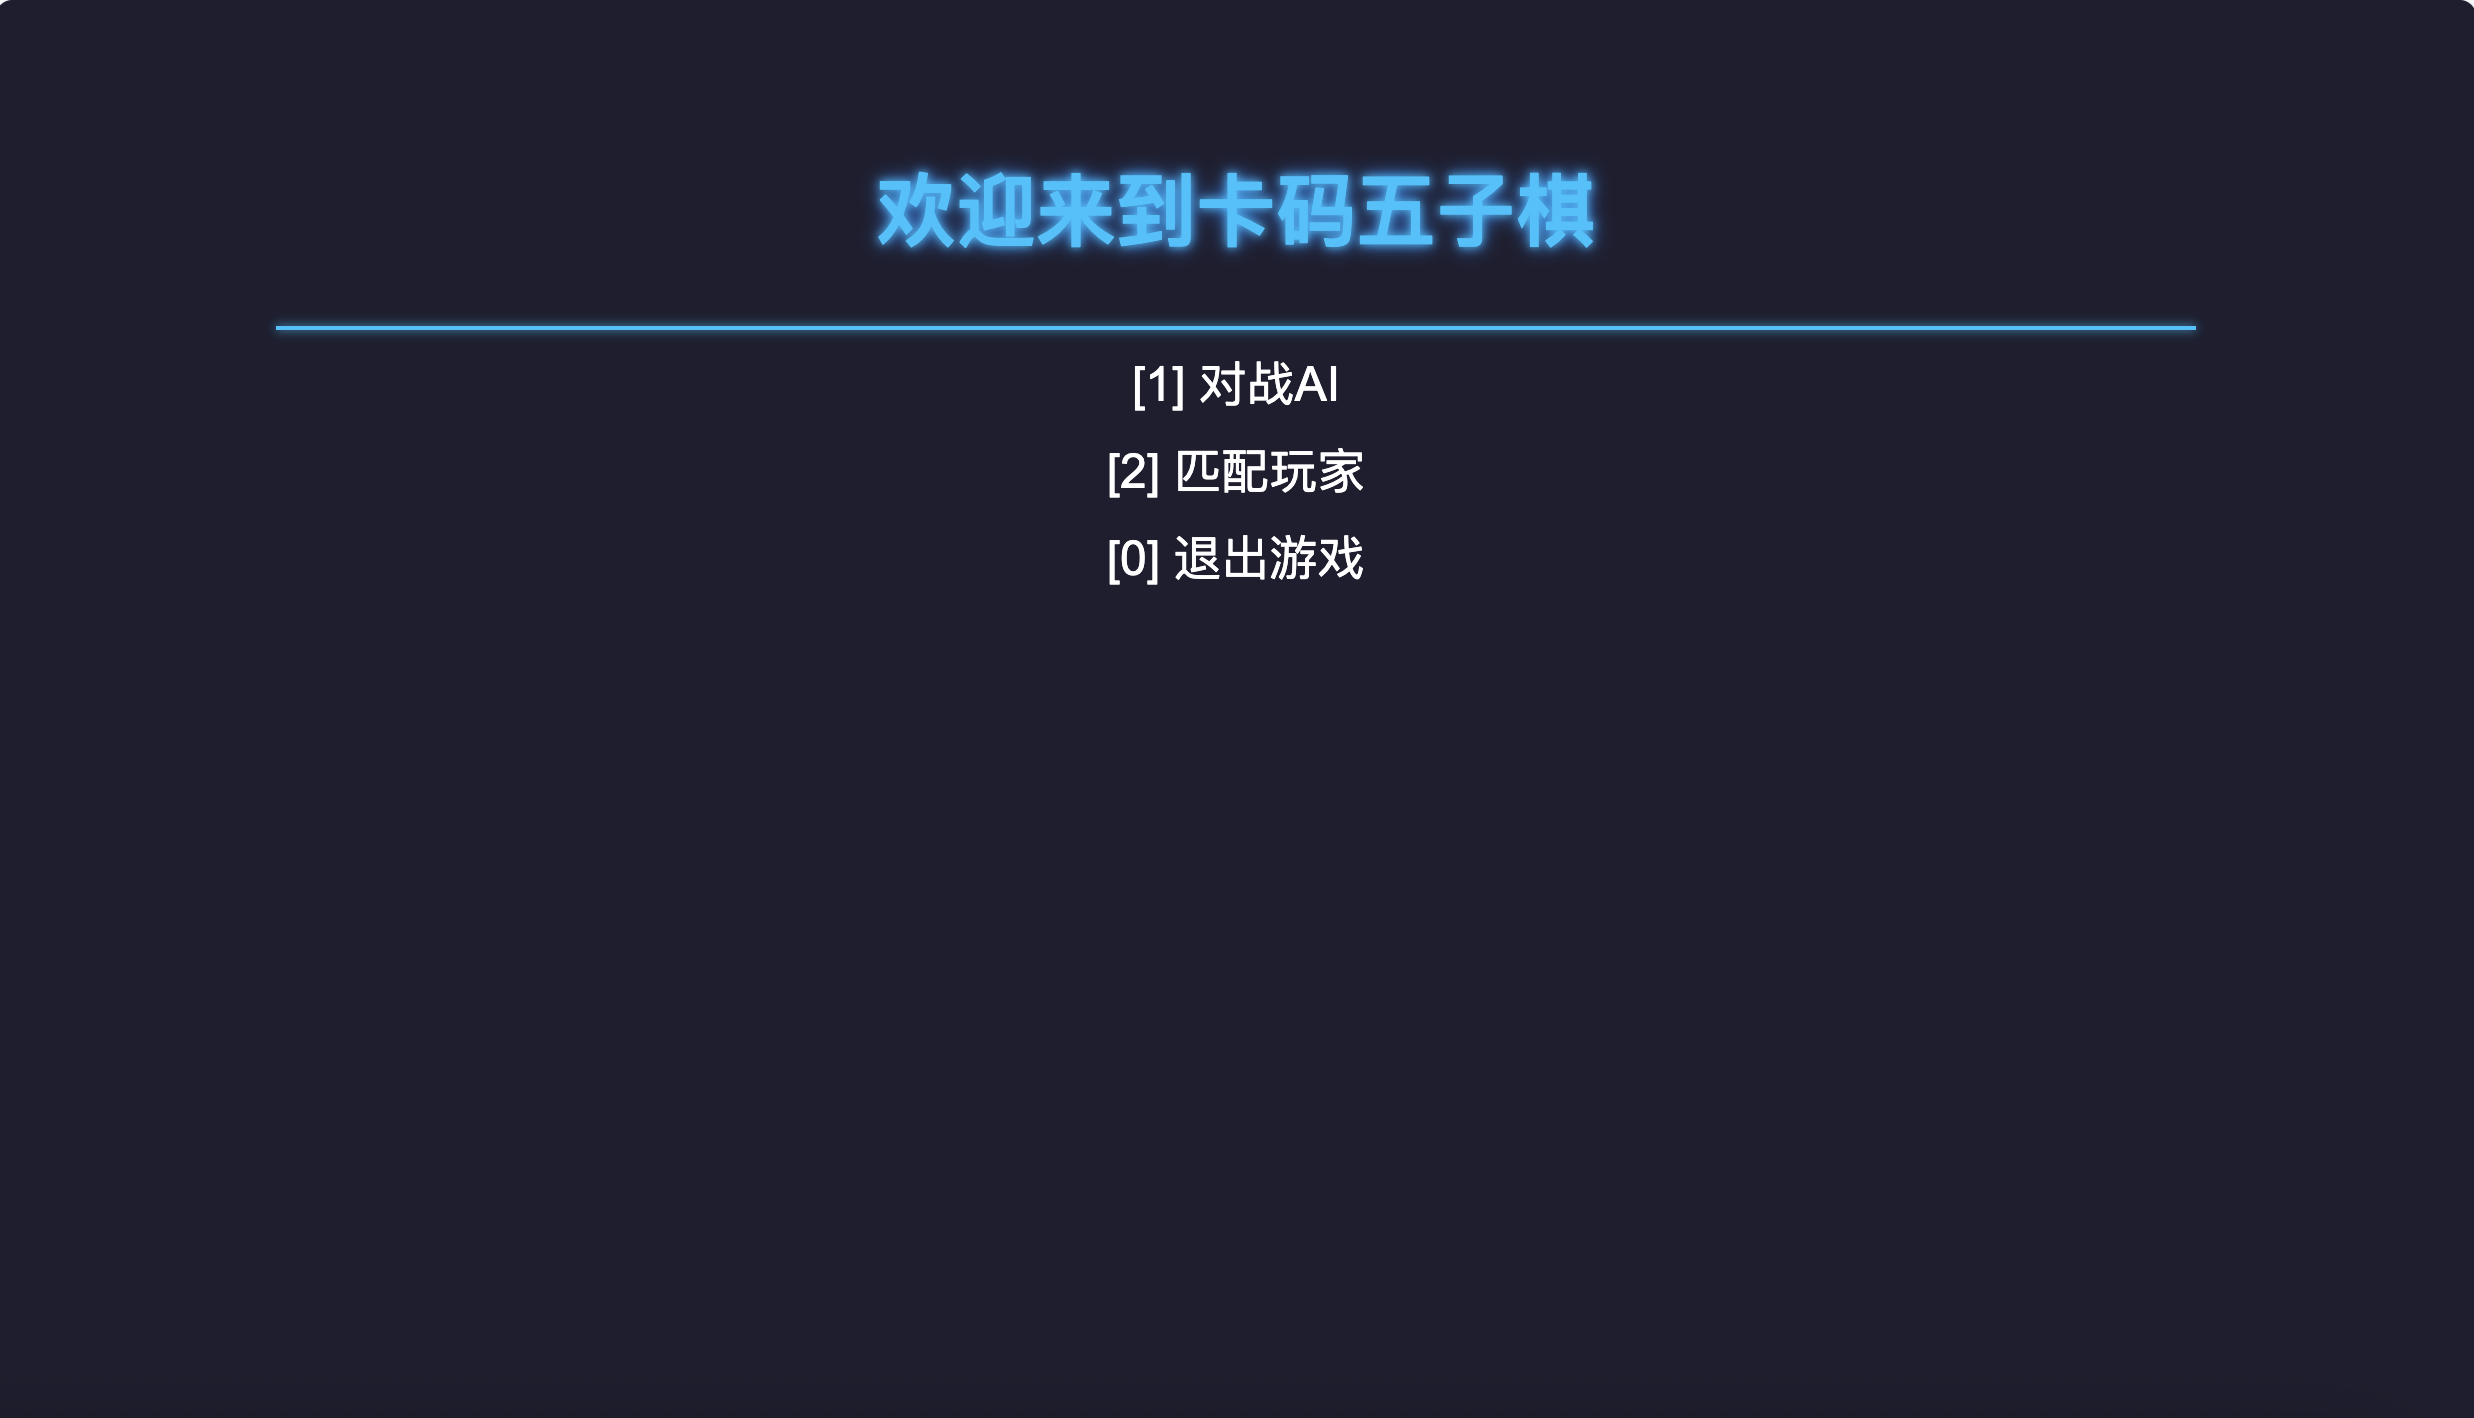
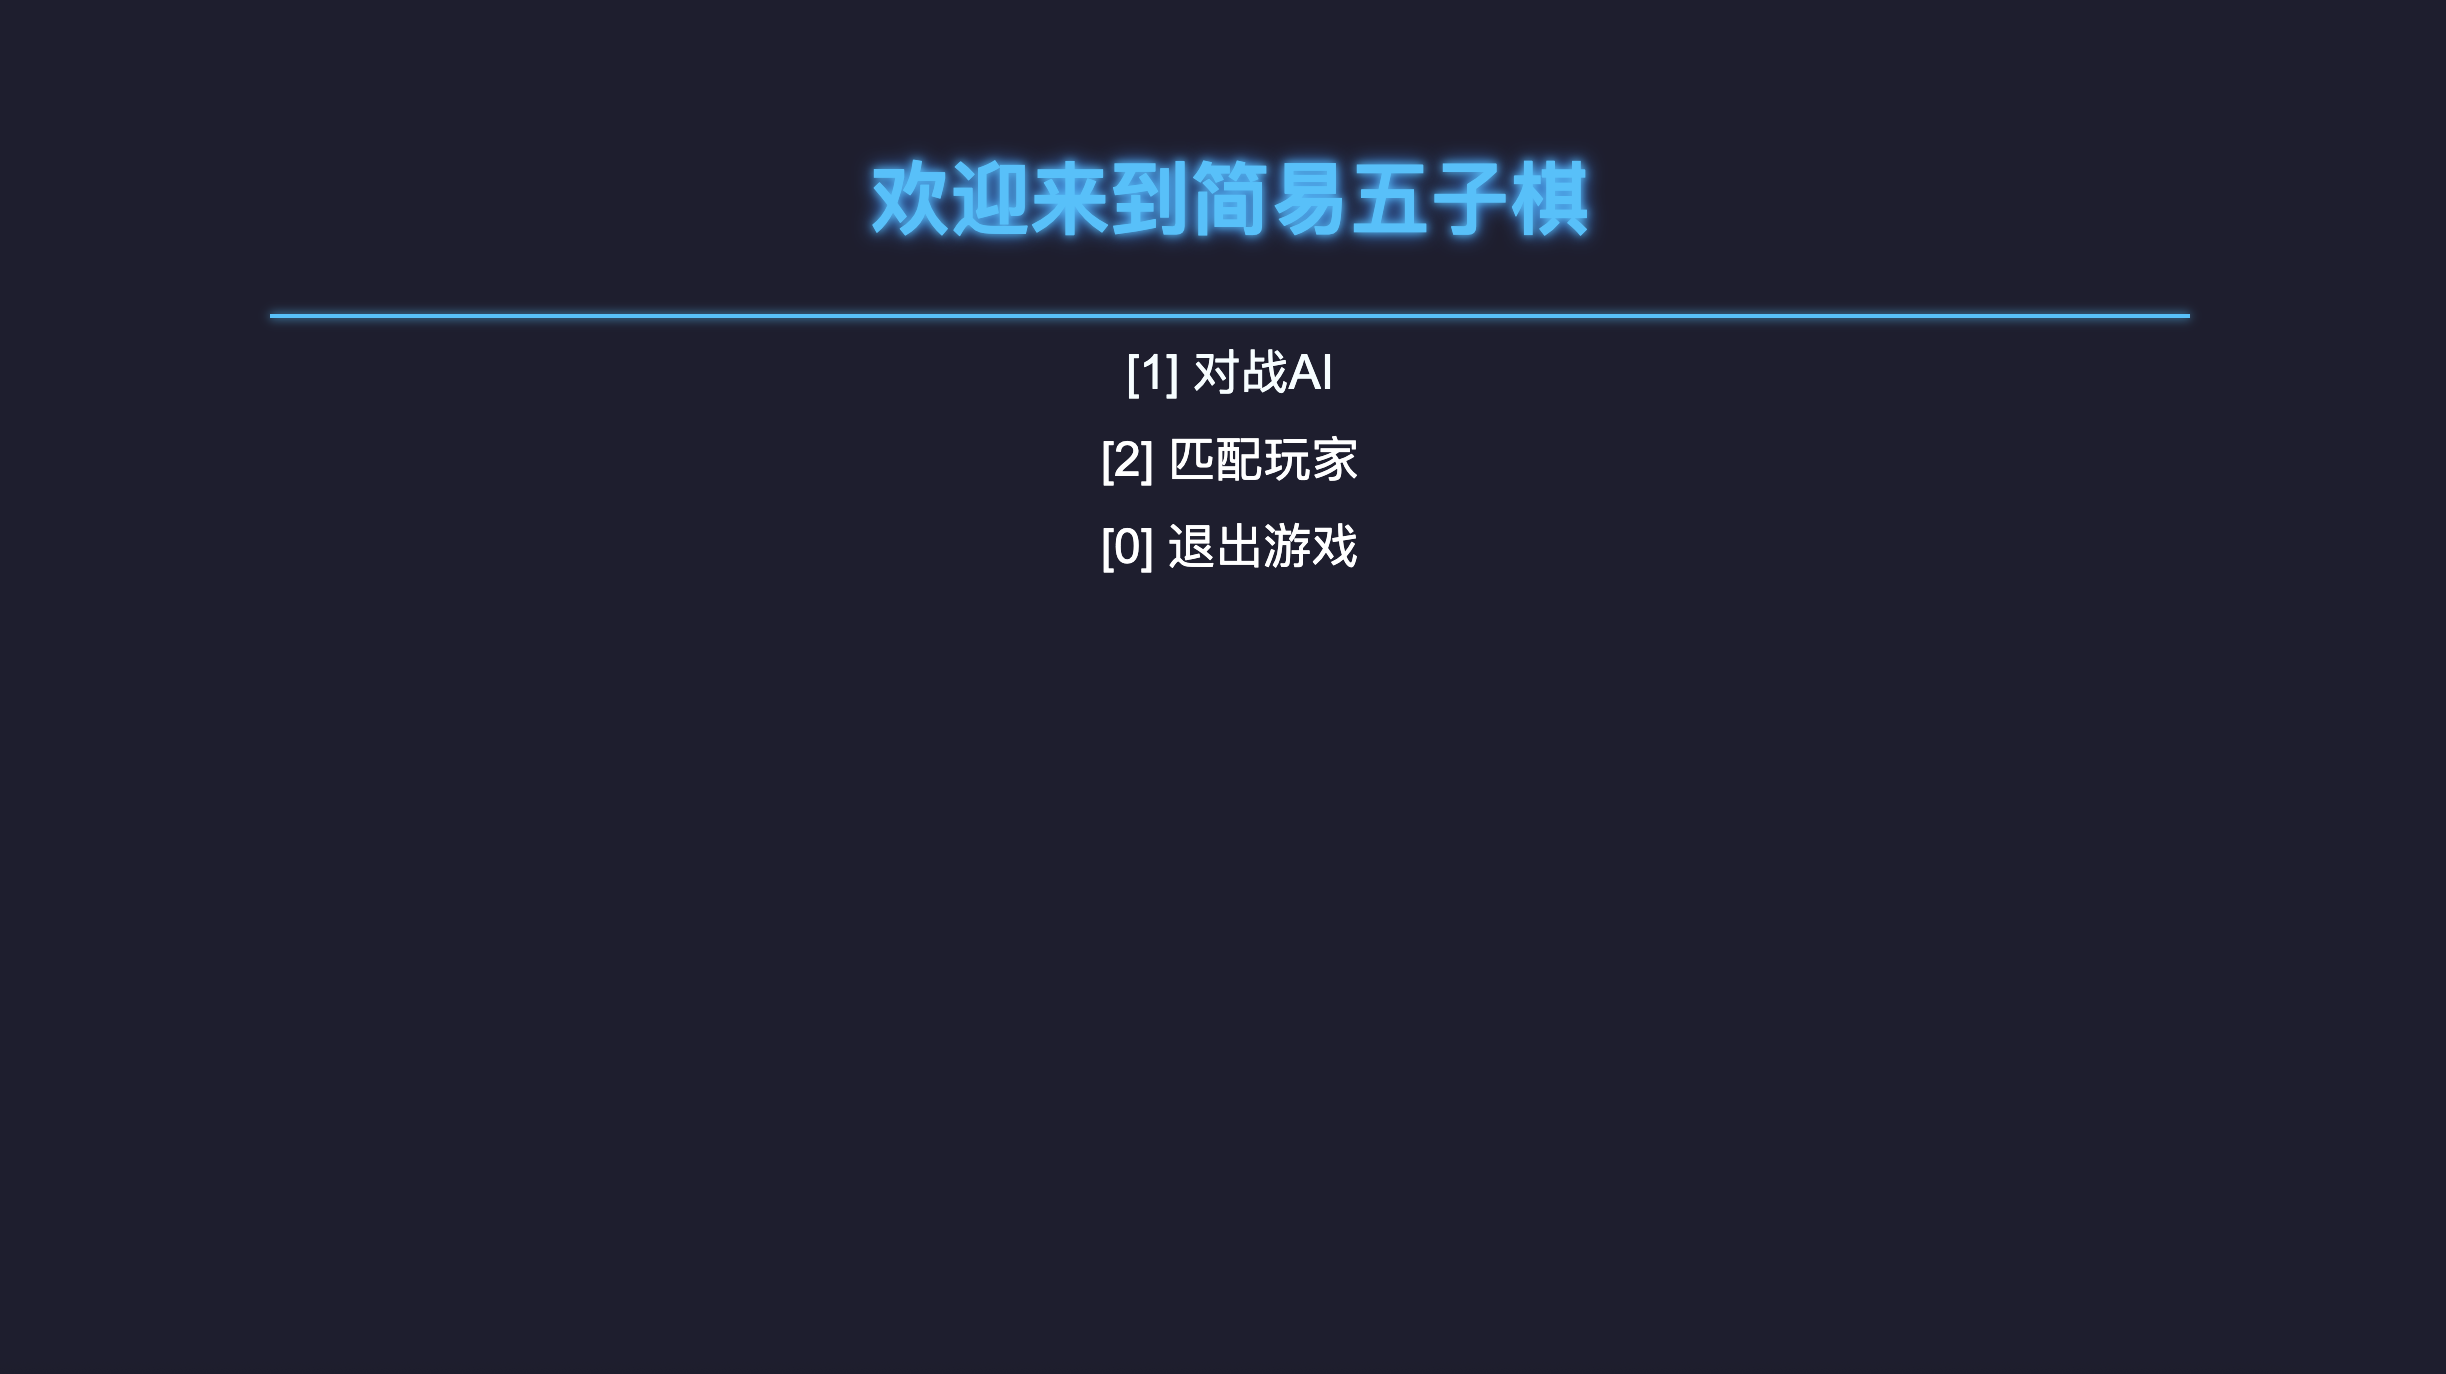
update

Changed region(s): [[0.3418, 0.0917, 0.6525, 0.1834], [0.435, 0.2445, 0.5593, 0.4279], [0.87, 0.214, 0.9011, 0.2445]]

diff --git a/WebApps/GomokuServer/resource/ChessGameVsAi.html b/WebApps/GomokuServer/resource/ChessGameVsAi.html
@@ -361,7 +361,7 @@
             // 显示加载状态
             document.body.innerHTML = `
                 <div id="loading-container">
-                    <div id="loading-title">卡码五子棋</div>
+                    <div id="loading-title">五子棋</div>
                     <div class="progress-bar">
                         <div class="progress"></div>
                     </div>

diff --git a/WebApps/GomokuServer/resource/menu.html b/WebApps/GomokuServer/resource/menu.html
@@ -127,7 +127,7 @@
 
     <!-- 菜单页面 -->
     <div id="menu-container">
-        <h1>欢迎来到卡码五子棋</h1>
+        <h1>欢迎来到五子棋</h1>
         <div class="menu-border"></div>
         <div class="menu-option" id="play-ai">[1] 对战AI</div>
         <div class="menu-option">[2] 匹配玩家</div>
